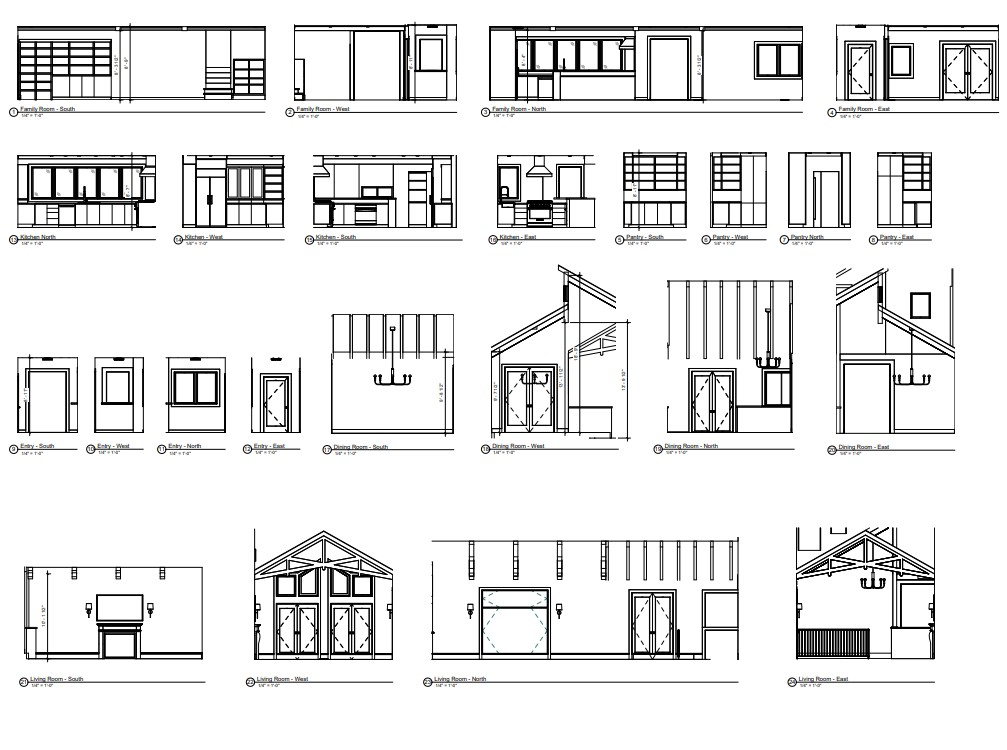
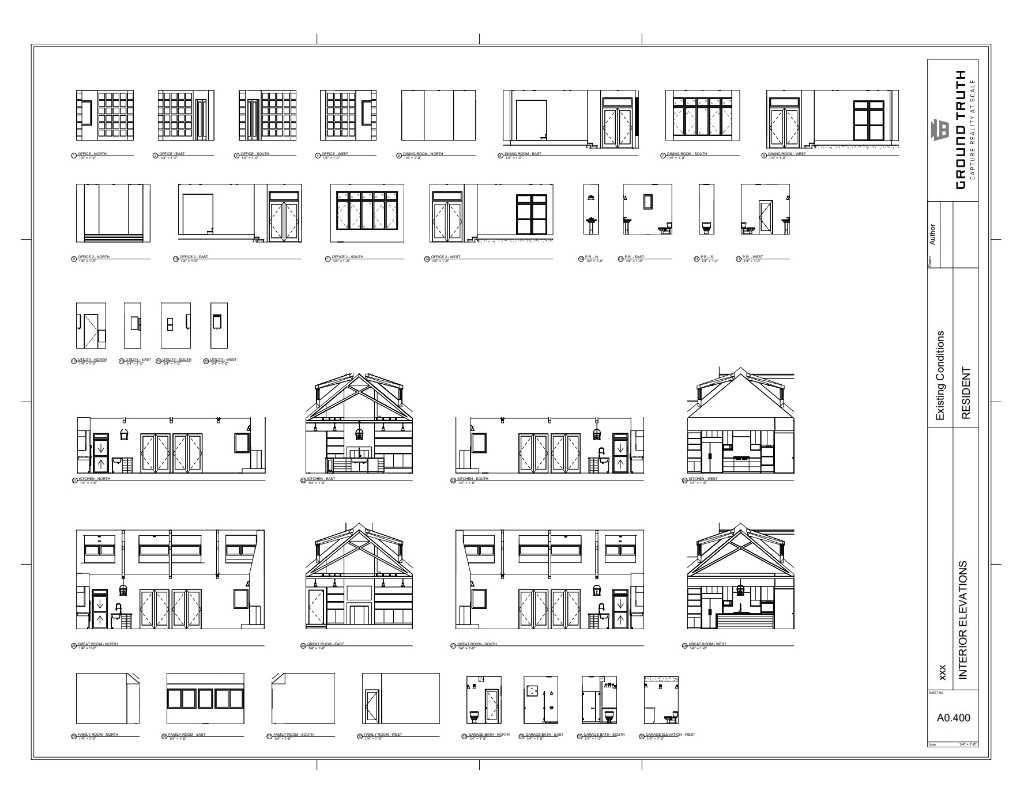
Example deliverables: update interior architecture 2D thumbnail (sheet A0.400)
Made-with: Cursor

Changed region(s): [[0.0, 0.0307, 1.0, 0.9813]]

diff --git a/example-deliverables/index.html b/example-deliverables/index.html
@@ -234,7 +234,7 @@
           <img
             class="deliverables-drawing-set__thumb"
             src="images/interior-architecture-2d-thumb.png"
-            alt="Sample interior elevations: family room, kitchen, dining, and living room wall drawings"
+            alt="Interior elevations sheet: office, kitchen, great room, family room, and master bath, sheet A0.400"
             width="400"
             height="400"
             loading="lazy"
